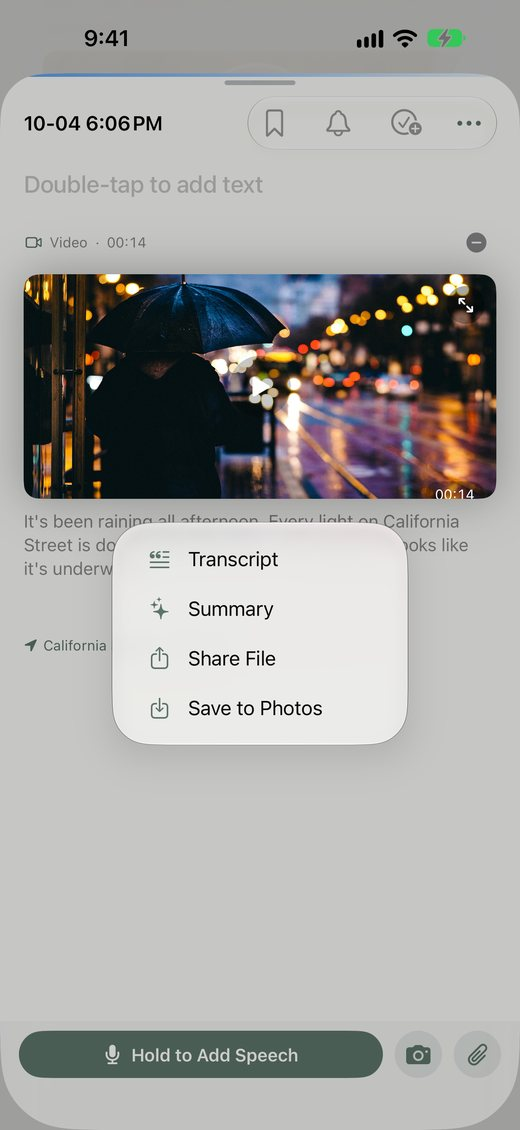
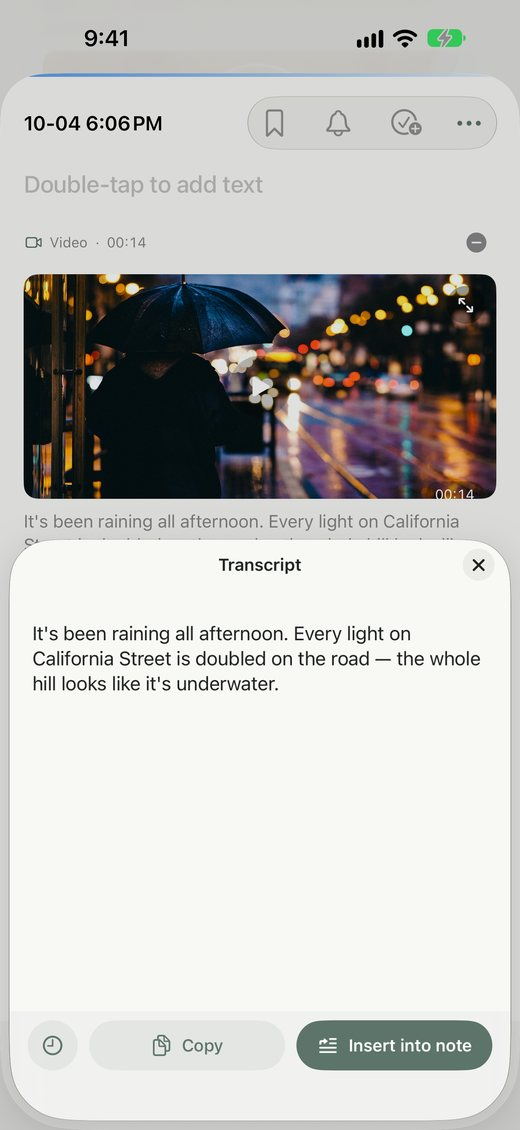
Update website (1527193)

diff --git a/index.html b/index.html
@@ -53,7 +53,7 @@
         <img class="shot" src="/img/camera.jpg" alt="The camera, ready to hold for video" width="520" height="1130" loading="lazy">
       </article>
       <article class="fcard c1 reveal">
-        <h3>From video to words</h3>
+        <h3>From media to words</h3>
         <p>What was said in a recording or video is written out, searchable, and yours to edit.</p>
         <img class="shot" src="/img/transcript.jpg" alt="A video note with its transcript" width="520" height="1130" loading="lazy">
       </article>
